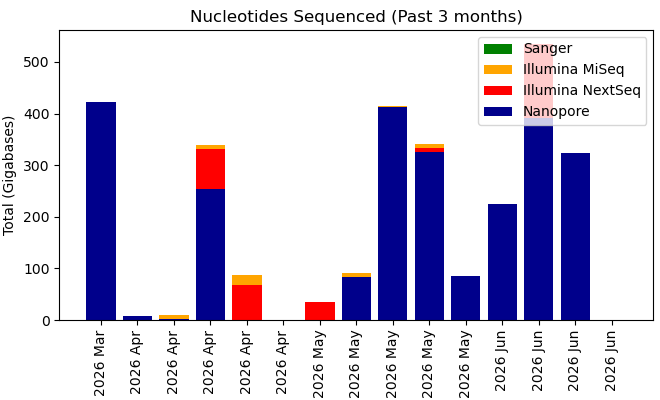
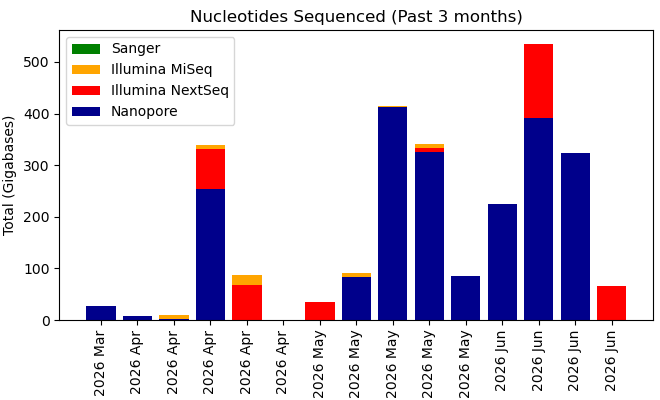
Your commit message here

diff --git a/krona/cgs.html b/krona/cgs.html
@@ -52,8 +52,8 @@ body {
   flex-direction: column;
 }
 </style>
-<H1>Genomics Facility Status: 07:00:13, 23/06/2026</H1>
-<marquee behavior="scroll" scrollamount="20" direction="left" bgcolor="lightgrey">AGAAAACCTACCGCGCTTCGCTTGGTCAACCCCTCAGCGGCAAAAATTAAAATTTTTACCGCTTCGGCGTTATAACCTCACACTCAATCTTTTATCACGAAGTCATGATTGAATCGCGAGTGGTCGGCAGATTGCGATAAACGGTCACATTAAATTTAACCTGACTATTCCACTGCAACAACTGAACGGACTGGAAACACTGGTCATAATCATGGTGGCGAATAAGTACGCGTTCTTGCAAATCACCAGA</marquee>
+<H1>Genomics Facility Status: 07:00:13, 24/06/2026</H1>
+<marquee behavior="scroll" scrollamount="20" direction="left" bgcolor="lightgrey">TTTGACCGCCTCCAAACAATTTAGACATGGCGCCACCAGCAAGAGCAGAAGCAATACCGCCAGCAATAGCACCAAACATAAATCACCTCACTTAAGTGGCTGGAGACAAATAATCTCTTTAATAACCTGATTCAGCGAAACCAATCCGCGGCATTTAGTAGCGGTAAAGTTAGACCAAACCATGAAACCAACATAAACATTATTGCCCGGCGTACGGGGAAGGACGTCAATAGTCACACAGTCCTTGACGG</marquee>
 <TABLE BORDER=0><TR><TD><TABLE class="styled-table"><H3>GigaBases Sequenced</H3>
-<TR><TD><b>Platform</b></TD><TD><b>Week</b></TD><TD><b>Month</b></TD><TD><b>Year</b></TD><TD><b>Total</b></TD></TR><TR><TD>Illumina MiSeq</TD><TD>0.0</TD><TD>0.0</TD><TD>341.6</TD><TD>567.8</TD></TR><TR><TD>Illumina NextSeq</TD><TD>0.0</TD><TD>143.68</TD><TD>3467.62</TD><TD>6797.43</TD></TR><TR><TD>Nanopore PromethION</TD><TD>323.69</TD><TD>1351.22</TD><TD>8907.77</TD><TD>13980.53</TD></TR><TR><TD>Sanger</TD><TD>0.0</TD><TD>0.0</TD><TD>0.02</TD><TD>0.05</TD></TR></TABLE></TD><TD><IMG SRC="fig1.png"><IMG SRC="fig2.png"></TD></TR><TR><TD><H3>No. Samples (No. Experiments)</H3>
-<TABLE class="styled-table"><TR><TD><b>Platform</b></TD><TD><b>Week</b></TD><TD><b>Month</b></TD><TD><b>Year</b></TD><TD><b>Total</b></TD></TR><TR><TD>Illumina MiSeq</TD><TD>0 (0)</TD><TD>0 (0)</TD><TD>1360 (69)</TD><TD>2514 (101)</TD></TR><TR><TD>Illumina NextSeq</TD><TD>0 (0)</TD><TD>24 (1)</TD><TD>1202 (56)</TD><TD>2222 (90)</TD></TR><TR><TD>Nanopore PromethION</TD><TD>19 (6)</TD><TD>66 (30)</TD><TD>639 (215)</TD><TD>1082 (380)</TD></TR><TR><TD>Sanger</TD><TD>576 (576)</TD><TD>1536 (1536)</TD><TD>21211 (21211)</TD><TD>47106 (47106)</TD></TR></TABLE></TD><TD><IMG SRC="fig4.png"></TD></TR></TABLE></HTML>
+<TR><TD><b>Platform</b></TD><TD><b>Week</b></TD><TD><b>Month</b></TD><TD><b>Year</b></TD><TD><b>Total</b></TD></TR><TR><TD>Illumina MiSeq</TD><TD>0.0</TD><TD>0.0</TD><TD>341.6</TD><TD>567.8</TD></TR><TR><TD>Illumina NextSeq</TD><TD>64.98</TD><TD>208.66</TD><TD>3532.6</TD><TD>6862.41</TD></TR><TR><TD>Nanopore PromethION</TD><TD>322.73</TD><TD>1025.06</TD><TD>8907.77</TD><TD>13980.53</TD></TR><TR><TD>Sanger</TD><TD>0.0</TD><TD>0.0</TD><TD>0.02</TD><TD>0.05</TD></TR></TABLE></TD><TD><IMG SRC="fig1.png"><IMG SRC="fig2.png"></TD></TR><TR><TD><H3>No. Samples (No. Experiments)</H3>
+<TABLE class="styled-table"><TR><TD><b>Platform</b></TD><TD><b>Week</b></TD><TD><b>Month</b></TD><TD><b>Year</b></TD><TD><b>Total</b></TD></TR><TR><TD>Illumina MiSeq</TD><TD>0 (0)</TD><TD>0 (0)</TD><TD>1360 (69)</TD><TD>2514 (101)</TD></TR><TR><TD>Illumina NextSeq</TD><TD>8 (1)</TD><TD>32 (2)</TD><TD>1210 (57)</TD><TD>2230 (91)</TD></TR><TR><TD>Nanopore PromethION</TD><TD>16 (4)</TD><TD>60 (24)</TD><TD>639 (215)</TD><TD>1082 (380)</TD></TR><TR><TD>Sanger</TD><TD>576 (576)</TD><TD>1632 (1632)</TD><TD>21403 (21403)</TD><TD>47298 (47298)</TD></TR></TABLE></TD><TD><IMG SRC="fig4.png"></TD></TR></TABLE></HTML>
